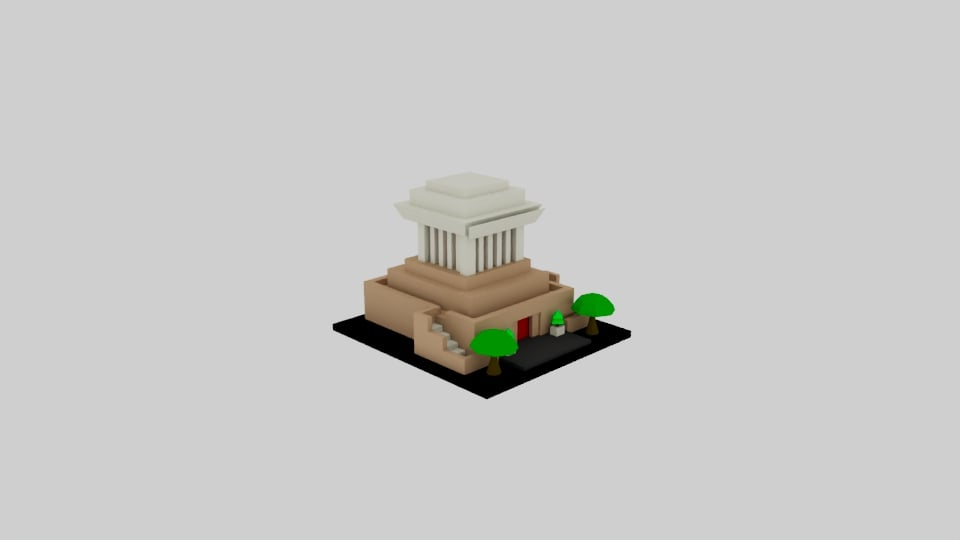
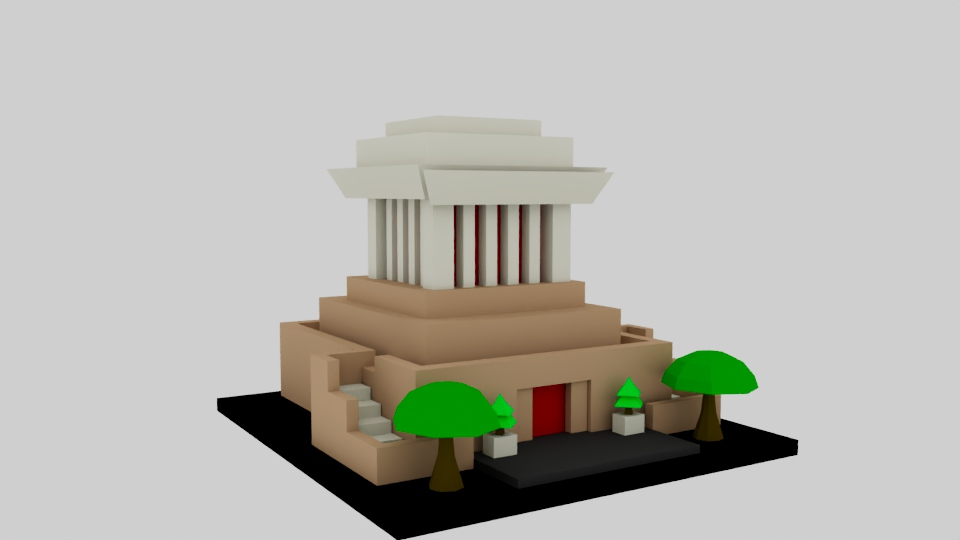
refactor(models): synchronize model layout structure and use latest Lang Bac asset

Changed region(s): [[0.2188, 0.2074, 0.8438, 1.0]]

diff --git a/src/components/sections/CollectionsSection.tsx b/src/components/sections/CollectionsSection.tsx
@@ -129,19 +129,12 @@ export const CollectionsSection: React.FC<CollectionsSectionProps> = ({
 
                   {/* Render Image Display */}
                   <div className="relative my-6 h-[300px] flex items-center justify-center">
-                    <div
-                      className="w-full h-full flex items-center justify-center"
-                      style={{
-                        transform: model.visualScale ? `scale(${model.visualScale})` : undefined,
-                      }}
-                    >
-                      <img
-                        src={currentImg}
-                        alt={`${model.name} render`}
-                        className="max-h-full max-w-full object-contain drop-shadow-2xl transition-transform duration-500 group-hover:scale-105"
-                        loading="lazy"
-                      />
-                    </div>
+                    <img
+                      src={currentImg}
+                      alt={`${model.name} render`}
+                      className="max-h-full max-w-full object-contain drop-shadow-2xl transition-transform duration-500 group-hover:scale-105"
+                      loading="lazy"
+                    />
                   </div>
 
                   {/* Angle Switcher Controls & Quick 3D button */}

diff --git a/scripts/verify-e2e-all.js b/scripts/verify-e2e-all.js
@@ -163,9 +163,7 @@ const modelsDataCode = fs.readFileSync(path.join(rootDir, 'src/data/modelsData.t
 assert(modelsDataCode.includes("dimensionDisplay: '19 × 20 × 30 cm'"), 'Chùa Một Cột has exact dimensions 19 × 20 × 30 cm');
 assert(modelsDataCode.includes("dimensionDisplay: '33 × 30 × 23 cm'"), 'Lăng Bác has exact dimensions 33 × 30 × 23 cm');
 assert(modelsDataCode.includes("dimensionDisplay: '26 × 21 × 33 cm'"), 'Khuê Văn Các has exact dimensions 26 × 21 × 33 cm');
-assert(modelsDataCode.includes('visualScale: 1.35'), 'Lăng Bác has visualScale 1.35 for prominent display');
-assert(collectionsCode.includes('model.visualScale'), 'CollectionsSection supports visualScale');
-assert(viewerCode.includes('model.visualScale'), 'InteractiveViewer supports visualScale');
+assert(modelsDataCode.includes('Lang bac mowi nhat.jpg'), 'Lăng Bác uses latest authentic asset Lang bac mowi nhat.jpg');
 
 const testimonialsCode = fs.readFileSync(path.join(rootDir, 'src/components/sections/TestimonialsSection.tsx'), 'utf-8');
 assert(testimonialsCode.includes('id="testimonials"'), 'TestimonialsSection declares id="testimonials"');

diff --git a/src/data/modelsData.ts b/src/data/modelsData.ts
@@ -106,7 +106,6 @@ export const modelsData: ModelSpecification[] = [
       weightGrams: 350,
     },
     dimensionDisplay: '33 × 30 × 23 cm',
-    visualScale: 1.35,
     material: 'Giấy bìa mỹ thuật vân sa thạch 250gsm dập nếp vi sai, in sắc nét',
     finish: 'Mực in sắc nét với keo sữa chuyên dụng, dập nếp trợ lực chống nứt gãy giấy',
     editionLimit: 1000,
@@ -114,7 +113,7 @@ export const modelsData: ModelSpecification[] = [
     architecturalSignificance: 'Bố cục khối vuông vức ba tầng uy nghiêm: tầng 1 cấu trúc bậc thềm tam cấp khán đài, tầng 2 hệ 20 cột ốp đá hoa cương bọc lấy phòng thiêng, tầng mái giật cấp. Thiết kế Low-poly giấy tạo nên tác phẩm decor bàn làm việc đậm chiều sâu lịch sử.',
     views: {
       front: `${BASE}models/lang-bac-front.png`,
-      perspective: `${BASE}models/lang-bac-perspective.png`,
+      perspective: `${BASE}models/Lang bac mowi nhat.jpg`,
     },
     hotspots: [
       {

diff --git a/src/components/sections/InteractiveViewer.tsx b/src/components/sections/InteractiveViewer.tsx
@@ -239,7 +239,7 @@ export const InteractiveViewer: React.FC<InteractiveViewerProps> = ({
               {/* Scalable Model Container with Hotspots */}
               <div
                 className="relative z-10 w-full flex items-center justify-center transition-transform duration-300"
-                style={{ transform: `scale(${zoom * (model.visualScale || 1)})` }}
+                style={{ transform: `scale(${zoom})` }}
               >
                 <img
                   src={model.views[angle]}

diff --git a/src/types/index.ts b/src/types/index.ts
@@ -26,7 +26,6 @@ export interface ModelSpecification {
     weightGrams: number;
   };
   dimensionDisplay?: string;
-  visualScale?: number;
   material: string;
   finish: string;
   editionLimit: number;
